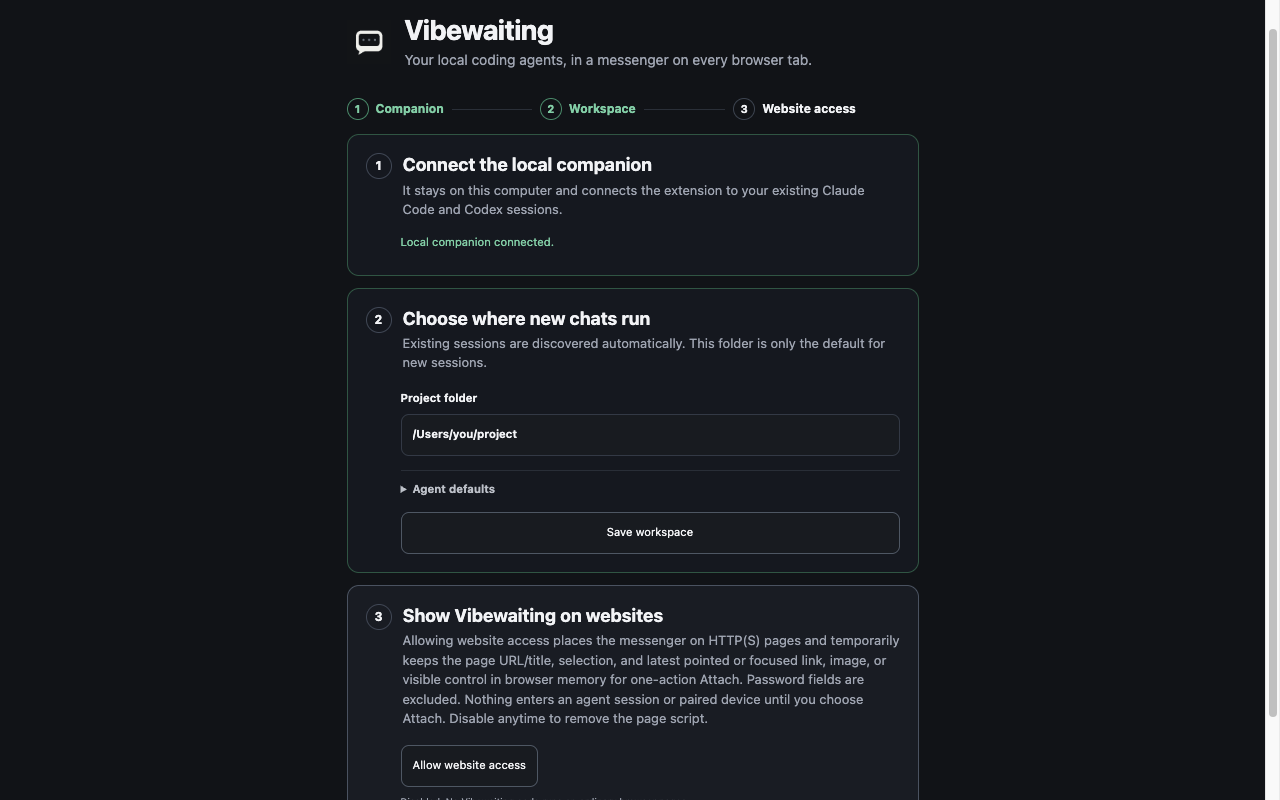
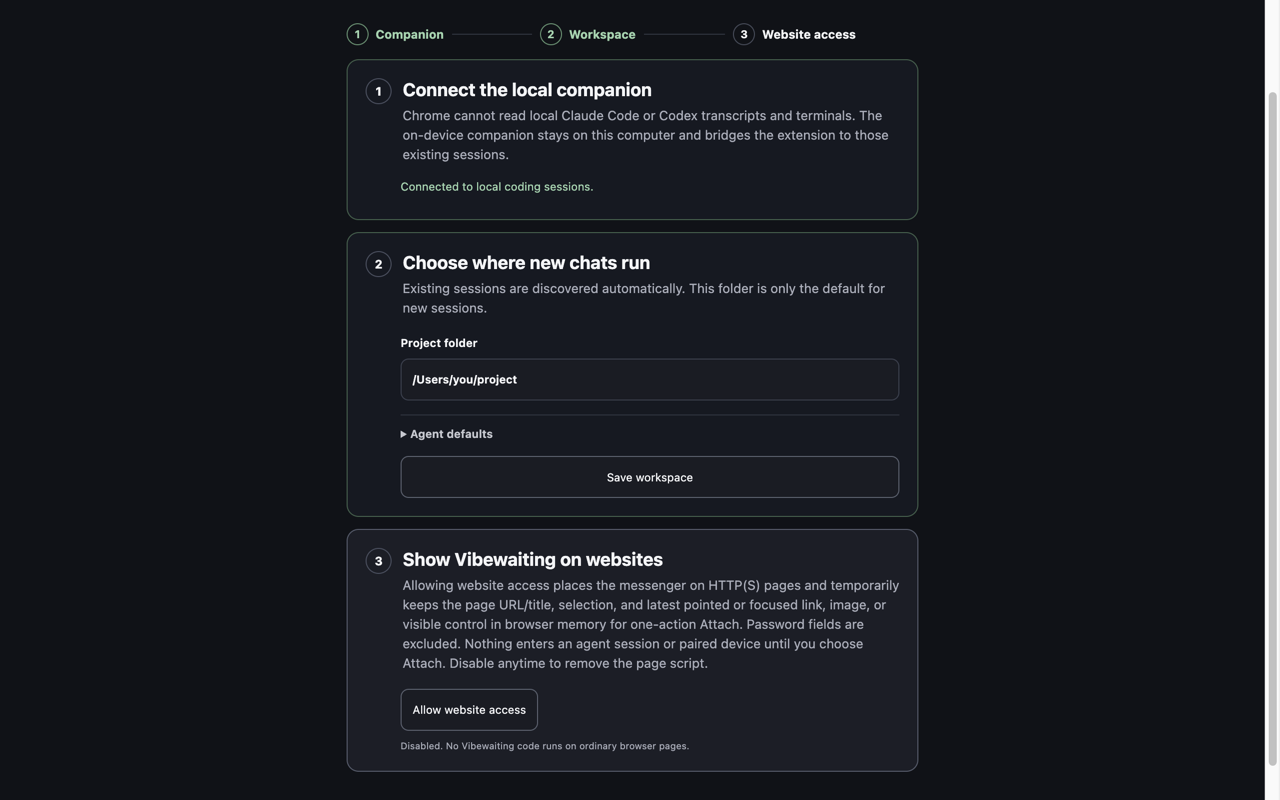
docs: explain the on-device developer bridge

diff --git a/extension/options.html b/extension/options.html
@@ -28,7 +28,7 @@
           <span class="step-number">1</span>
           <div>
             <h2 id="companion-title">Connect the local companion</h2>
-            <p>It stays on this computer and connects the extension to your existing Claude Code and Codex sessions.</p>
+            <p>Chrome cannot read local Claude Code or Codex transcripts and terminals. The on-device companion stays on this computer and bridges the extension to those existing sessions.</p>
           </div>
         </div>
         <output id="companion-status" aria-live="polite">Checking the local companion…</output>

diff --git a/docs/chrome-web-store.md b/docs/chrome-web-store.md
@@ -9,17 +9,22 @@ consistent with the extension, [PRIVACY.md](../PRIVACY.md), and the current rele
 isolated browser messenger, with user-invoked page-context attachment and a terminal
 view of the same conversation.
 
-**Short description:** Follow local coding agents, reply from any browser tab, and
-switch the same conversation into a terminal.
+**Short description:** Follow local Claude Code and Codex sessions, reply from any tab,
+and switch the same conversation into a terminal.
 
 **Category:** Developer Tools
 
 **Detailed description:**
 
-> Vibewaiting keeps your local Claude Code and Codex sessions within reach while you
-> work in the browser. Open a compact messenger on ordinary tabs, see what each agent is
-> doing, reply, attach the page you are looking at, or switch the same conversation into
-> a familiar terminal.
+> Vibewaiting is a browser companion for developers who run Claude Code or Codex
+> locally. It keeps those sessions within reach while you work in the browser: see what
+> each agent is doing, reply from an ordinary tab, attach the page you are looking at,
+> or switch the same conversation into a familiar terminal.
+>
+> Why is a local companion needed? Claude Code and Codex keep their transcripts,
+> process state, and tmux-backed terminals on the developer's computer, where Chrome's
+> extension sandbox cannot read them. The Vibewaiting companion stays on that computer
+> and bridges the extension to the sessions the developer already runs there.
 >
 > By default, session content stays on your computer. Vibewaiting has no hosted agent
 > account, analytics, advertising, or cloud transcript service. Claude Code and Codex
@@ -37,7 +42,7 @@ switch the same conversation into a terminal.
 > a stable HTTPS relay to an authenticated device you pair. Insecure relay URLs are
 > rejected and stopping remote access closes the route.
 >
-> Requires macOS or Linux, the Vibewaiting native companion, and a local Claude Code or
+> Requires macOS or Linux, the Vibewaiting local companion, and a local Claude Code or
 > Codex installation signed in with that provider. Chrome, Chromium, and Brave are
 > supported in this alpha. Windows, Firefox, and other coding harnesses are not yet
 > supported.
@@ -45,7 +50,7 @@ switch the same conversation into a terminal.
 **Reviewer instructions (500-character dashboard limit):**
 
 > Requires macOS/Linux, Node 22.12+ or 24+, and a signed-in Claude Code or Codex CLI; no
-> Vibewaiting account. Run `npm i -g https://github.com/volter-ai/vibewaiting/releases/download/v0.1.1/vibewaiting-0.1.1.tgz`
+> Vibewaiting account. Run `npm i -g https://github.com/volter-ai/vibewaiting/releases/download/v0.1.2/vibewaiting-0.1.2.tgz`
 > and `vibewaiting native install --browser chrome`. Open Options, save an existing
 > folder, read/allow optional website access, and keep one agent session running. On an
 > HTTP(S) page press Alt+Shift+V; open it, reply, Attach a selection, switch Terminal.
@@ -59,7 +64,7 @@ lanes are verified.
 | Permission | Dashboard justification |
 | --- | --- |
 | Optional HTTP/HTTPS host access | Granted from Vibewaiting onboarding after a prominent disclosure. It places the messenger on ordinary pages and remembers the latest pointed or focused page target locally so the user can explicitly attach it. No extension code runs on websites before consent. |
-| Native messaging | Connects the extension-owned messenger to the local Vibewaiting companion that reads and continues local coding-agent sessions. |
+| Native messaging | Chrome's sandbox cannot read the local transcripts, process state, or terminals created by Claude Code and Codex. This permission connects the extension-owned messenger to the on-device Vibewaiting companion that bridges those existing sessions. |
 | Scripting | Registers the content script only after optional website access is granted and unregisters it when access is revoked. |
 | Storage | Keeps workspace selection, browser-local UI preferences, and overlay geometry. |
 | Context menus | Provides a user-invoked fallback for attaching a selected link. |

diff --git a/README.md b/README.md
@@ -30,11 +30,13 @@ switch the same conversation into a familiar terminal.
 ## Try the alpha
 
 The release path is documented in [Install, update, and remove](docs/install.md). In
-short: download the native package from the latest GitHub Release, verify it against
-`SHA256SUMS`, then run:
+short: Chrome cannot directly read the transcripts, process state, or terminals owned
+by local coding agents, so Vibewaiting uses a small on-device companion to bridge the
+extension to them. Download that package from the latest GitHub Release, verify it
+against `SHA256SUMS`, then run:
 
 ```sh
-npm install --global ./vibewaiting-0.1.1.tgz
+npm install --global ./vibewaiting-0.1.2.tgz
 vibewaiting native install --browser chrome
 ```
 
@@ -44,7 +46,7 @@ website access**, accept the browser prompt, and select a workspace; the launche
 on ordinary HTTP and HTTPS pages. Brave and Chromium use `--browser brave` and
 `--browser chromium`.
 
-The signed `v0.1.1` artifacts, checksums, SBOM, and provenance are available from the
+The signed `v0.1.2` artifacts, checksums, SBOM, and provenance are available from the
 [latest GitHub Release](https://github.com/volter-ai/vibewaiting/releases/latest). The
 same flow can also be exercised [from source](docs/install.md#install-from-source).
 

diff --git a/PRIVACY.md b/PRIVACY.md
@@ -1,6 +1,6 @@
 # Privacy
 
-Vibewaiting is local-first. It has no analytics, advertising SDK, hosted account,
+Vibewaiting is local-first developer tooling. It has no analytics, advertising SDK, hosted account,
 telemetry endpoint, or Volter-operated transcript service. By default, your
 coding-agent sessions stay on the computer where their harness stores them. If you
 deliberately enable remote access, selected chat and terminal traffic travels through
@@ -21,7 +21,7 @@ the tunnel provider you choose to a paired device.
 | Permission | Why it is needed |
 | --- | --- |
 | Optional access to websites | Place the isolated messenger overlay on ordinary pages and capture context you explicitly attach. You grant or revoke HTTP/HTTPS access from Vibewaiting settings. |
-| Native messaging | Connect the extension-owned messenger to the local Vibewaiting companion. |
+| Native messaging | Chrome cannot read local coding-agent transcripts, process state, or terminals. This connects the extension-owned messenger to the on-device Vibewaiting companion that can bridge those existing Claude Code and Codex sessions. |
 | Storage | Remember the selected workspace and local UI preferences. |
 | Context menus | Offer a precise fallback for attaching a link. |
 

diff --git a/CHANGELOG.md b/CHANGELOG.md
@@ -5,6 +5,16 @@ the complete generated notes and downloadable artifacts for each version.
 
 ## [Unreleased]
 
+## [0.1.2] - 2026-08-26
+
+### Changed
+
+- Store and onboarding copy now lead with the developer need for the local companion:
+  Claude Code and Codex keep transcripts, process state, and terminals outside Chrome's
+  extension sandbox, so an on-device bridge is required to reach those existing sessions.
+- The package summary and native-messaging justification now name the supported developer
+  tools and the exact local surfaces being bridged.
+
 ## [0.1.1] - 2026-08-26
 
 ### Changed
@@ -46,6 +56,7 @@ the complete generated notes and downloadable artifacts for each version.
 - Agent and remote-access defaults now stay outside the first-run critical path, and the
   unsafe confirmation override is labeled explicitly instead of as “Yolo.”
 
-[Unreleased]: https://github.com/volter-ai/vibewaiting/compare/v0.1.1...HEAD
+[Unreleased]: https://github.com/volter-ai/vibewaiting/compare/v0.1.2...HEAD
+[0.1.2]: https://github.com/volter-ai/vibewaiting/compare/v0.1.1...v0.1.2
 [0.1.1]: https://github.com/volter-ai/vibewaiting/compare/v0.1.0...v0.1.1
 [0.1.0]: https://github.com/volter-ai/vibewaiting/releases/tag/v0.1.0

diff --git a/docs/install.md b/docs/install.md
@@ -12,7 +12,7 @@ While the first store release is under review, download the native package and
 then install it:
 
 ```sh
-npm install --global ./vibewaiting-0.1.1.tgz
+npm install --global ./vibewaiting-0.1.2.tgz
 vibewaiting native install --browser chrome
 ```
 
